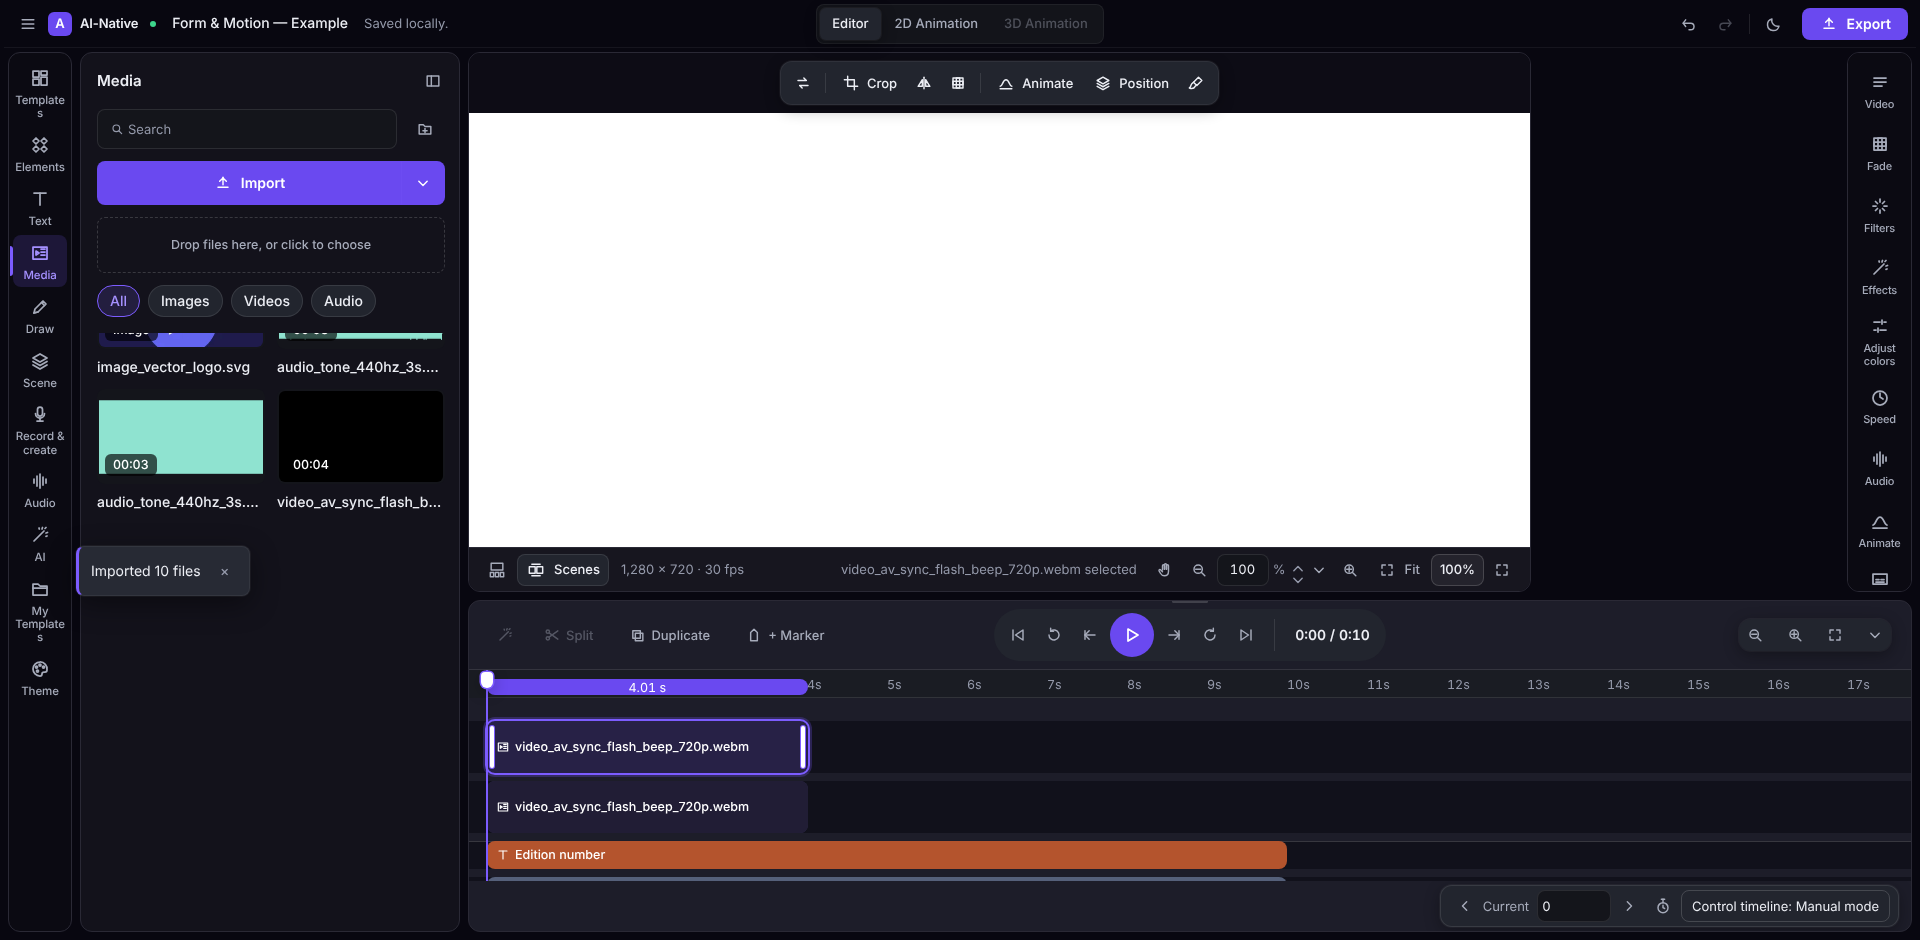
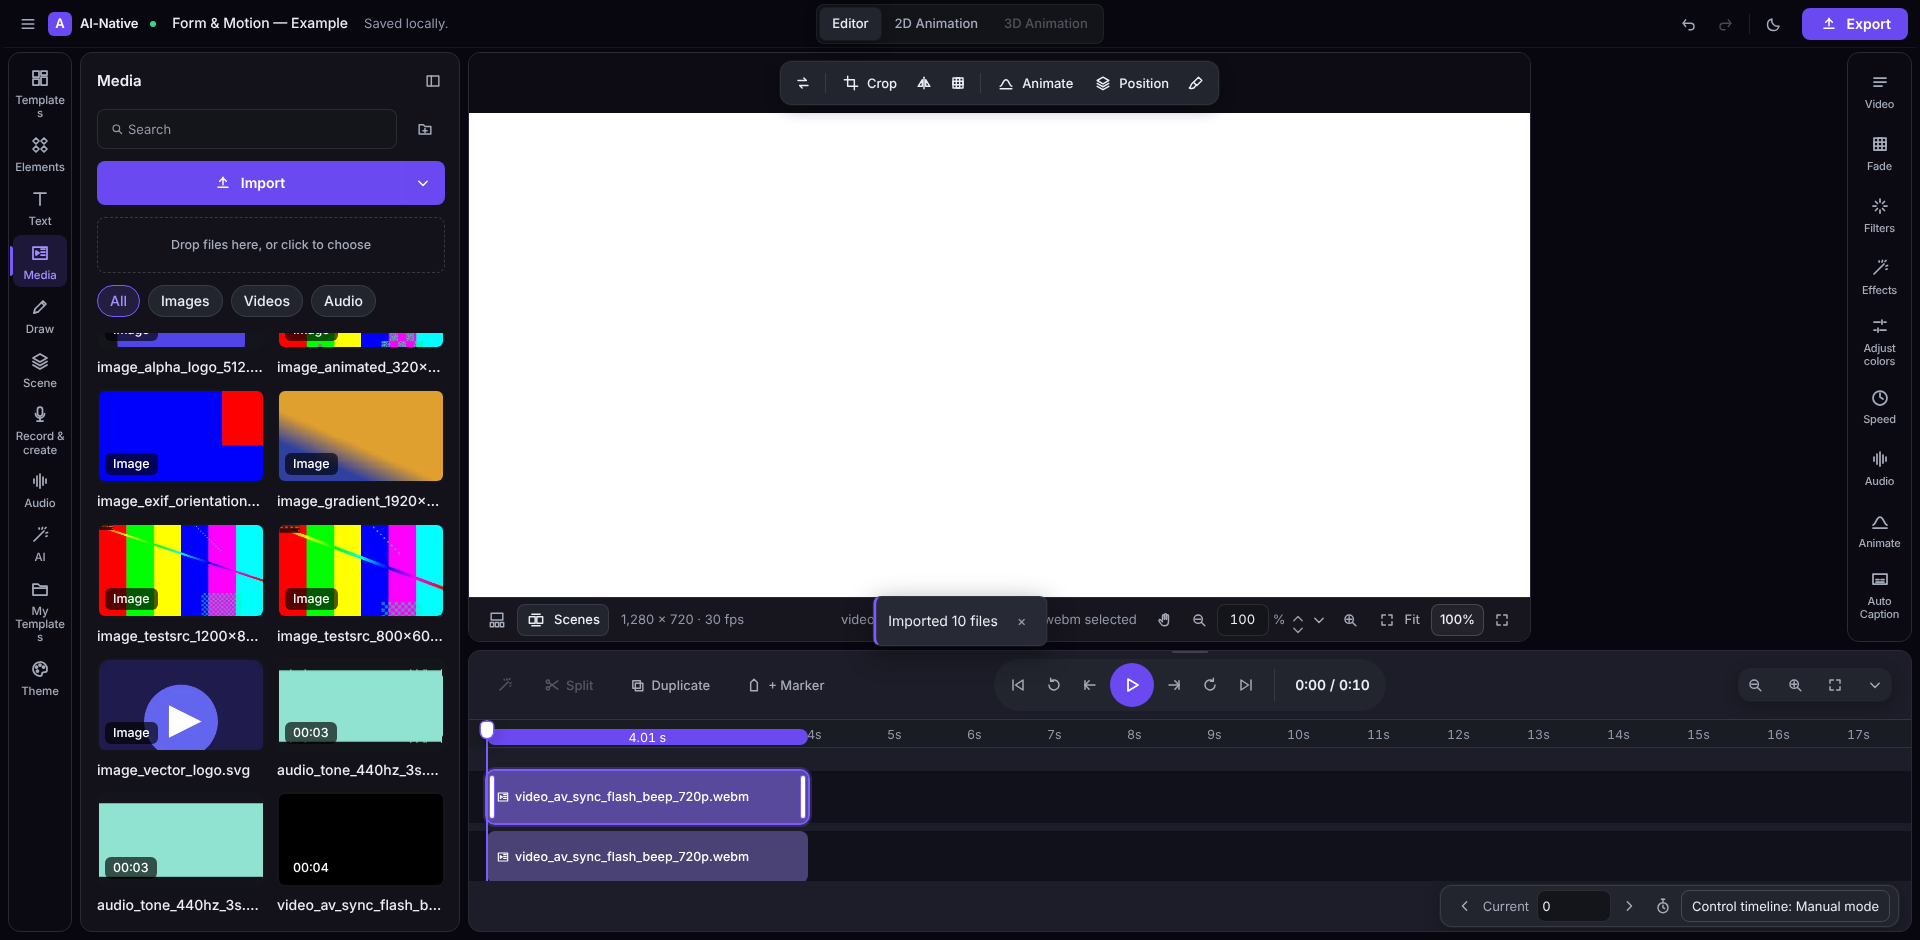
fix(layout): medium (laptop) windows keep the full-height left panel with the timeline beside it [FIX4]
Claude-Session: https://claude.ai/code/session_01VcXxyXrGE6xcCamYyf9WEF

Changed region(s): [[0.0312, 0.3394, 1.0, 0.9872]]

diff --git a/e2e/fix4-panels.spec.ts b/e2e/fix4-panels.spec.ts
@@ -70,3 +70,26 @@ test('[FX4-003] every overflowing left panel: its scroller reaches the panel bot
     path: `reports/fix4/a2-${testInfo.project.name}.png`,
   });
 });
+
+// FIX4: laptops use the same shape as wide windows: the left panel runs the
+// full height and the timeline sits beside it, never under it.
+test('[FX4-009] the left panel is full height and the timeline sits beside it', async ({
+  page,
+}) => {
+  await page.goto('/');
+  await show(page, 'Media');
+  const box = await page.evaluate(() => {
+    const rect = (selector: string) =>
+      document.querySelector(selector)!.getBoundingClientRect();
+    const library = rect('.library');
+    const timeline = rect('.timeline');
+    return {
+      libraryBottom: library.bottom,
+      libraryRight: library.right,
+      timelineLeft: timeline.left,
+      windowHeight: window.innerHeight,
+    };
+  });
+  expect(box.timelineLeft).toBeGreaterThanOrEqual(box.libraryRight - 1);
+  expect(box.libraryBottom).toBeGreaterThan(box.windowHeight - 40);
+});

diff --git a/src/style.css b/src/style.css
@@ -6877,9 +6877,12 @@ input[type='range'] {
 
 /* T-ALL P1 (spec 7): the left rail and panel run the full height; the
    timeline sits beside the panel (wide layout; narrower layouts keep the
-   full-width timeline so the Player bar fits). The left panel's collapse
+   full-width timeline so the Player bar fits). FIX4: the medium layout
+   (laptops, 1024 to 1439 px) uses the same shape: the panel runs full
+   height and the timeline sits beside it, as on a wide window. The left panel's collapse
    button is in its own header row. */
-.editor-shell[data-layout='wide'] {
+.editor-shell[data-layout='wide'],
+.editor-shell[data-layout='medium'] {
   grid-template-areas:
     'top top top top top'
     'rail-left library preview inspector rail-right'
